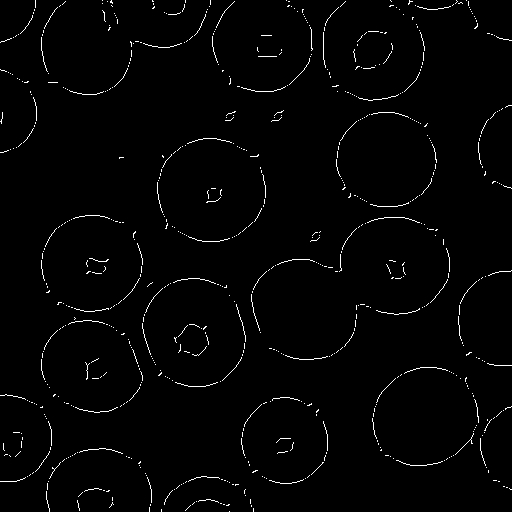
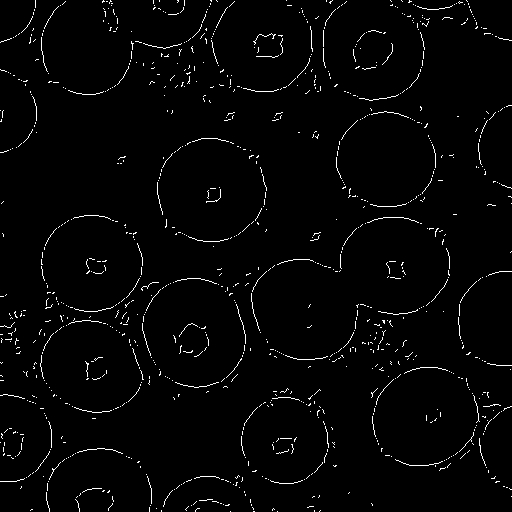
added circle detection

diff --git a/vision-hw4/src/harris_image.c b/vision-hw4/src/harris_image.c
@@ -103,12 +103,8 @@ image make_1d_gaussian(float sigma)
     }
     free(temp);
     image filter = make_image(1, f, 1);
-    printf("\n");
-    for(int i=0; i<f; ++i){
+    for(int i=0; i<f; ++i)
         *(filter.data + i) = pascal[i]/(float)sum;
-        printf("%f, ", *(filter.data + i));
-    }
-    printf("\n");
     free(pascal);
     return filter;
 }
@@ -119,24 +115,23 @@ image make_1d_gaussian(float sigma)
 // returns: smoothed image.
 image smooth_image(image im, float sigma)
 {
-    if(1){
-        image g = make_gaussian_filter(sigma);
-        image s = convolve_image(im, g, 1);
-        free_image(g);
-        return s;
-    }
+    // if(1){
+    //     image g = make_gaussian_filter(sigma);
+    //     image s = convolve_image(im, g, 1);
+    //     free_image(g);
+    //     return s;
+    // }
     // else {
         // TODO: optional, use two convolutions with 1d gaussian filter.
         // If you implement, disable the above if check.
-    // image filter = make_1d_gaussian(sigma);
-    // image mid = convolve_image(im, filter, 1);
-    // free_image(im);
-    // int s = filter.w;
-    // filter.w = filter.h;
-    // filter.h = s;
-    // image filtered_image = convolve_image(mid, filter, 1);
-    // free_image(mid);
-    // return filtered_image;
+    image filter = make_1d_gaussian(sigma);
+    image mid = convolve_image(im, filter, 1);
+    filter.w = filter.h;
+    filter.h = 1;
+    image filtered_image = convolve_image(mid, filter, 1);
+    free_image(mid);
+    free_image(filter);
+    return filtered_image;
 }
 // Calculate the structure matrix of an image.
 // image im: the input image.

diff --git a/vision-hw2/src/harris_image.c b/vision-hw2/src/harris_image.c
@@ -119,24 +119,23 @@ image make_1d_gaussian(float sigma)
 // returns: smoothed image.
 image smooth_image(image im, float sigma)
 {
-    if(1){
-        image g = make_gaussian_filter(sigma);
-        image s = convolve_image(im, g, 1);
-        free_image(g);
-        return s;
-    }
+    // if(1){
+    //     image g = make_gaussian_filter(sigma);
+    //     image s = convolve_image(im, g, 1);
+    //     free_image(g);
+    //     return s;
+    // }
     // else {
         // TODO: optional, use two convolutions with 1d gaussian filter.
         // If you implement, disable the above if check.
-    // image filter = make_1d_gaussian(sigma);
-    // image mid = convolve_image(im, filter, 1);
-    // free_image(im);
-    // int s = filter.w;
-    // filter.w = filter.h;
-    // filter.h = s;
-    // image filtered_image = convolve_image(mid, filter, 1);
-    // free_image(mid);
-    // return filtered_image;
+    image filter = make_1d_gaussian(sigma);
+    image mid = convolve_image(im, filter, 1);
+    filter.w = filter.h;
+    filter.h = 1;
+    image filtered_image = convolve_image(mid, filter, 1);
+    free_image(mid);
+    free_image(filter);
+    return filtered_image;
 }
 // Calculate the structure matrix of an image.
 // image im: the input image.

diff --git a/vision-hw3/src/harris_image.c b/vision-hw3/src/harris_image.c
@@ -119,24 +119,23 @@ image make_1d_gaussian(float sigma)
 // returns: smoothed image.
 image smooth_image(image im, float sigma)
 {
-    if(1){
-        image g = make_gaussian_filter(sigma);
-        image s = convolve_image(im, g, 1);
-        free_image(g);
-        return s;
-    }
+    // if(1){
+    //     image g = make_gaussian_filter(sigma);
+    //     image s = convolve_image(im, g, 1);
+    //     free_image(g);
+    //     return s;
+    // }
     // else {
         // TODO: optional, use two convolutions with 1d gaussian filter.
         // If you implement, disable the above if check.
-    // image filter = make_1d_gaussian(sigma);
-    // image mid = convolve_image(im, filter, 1);
-    // free_image(im);
-    // int s = filter.w;
-    // filter.w = filter.h;
-    // filter.h = s;
-    // image filtered_image = convolve_image(mid, filter, 1);
-    // free_image(mid);
-    // return filtered_image;
+    image filter = make_1d_gaussian(sigma);
+    image mid = convolve_image(im, filter, 1);
+    filter.w = filter.h;
+    filter.h = 1;
+    image filtered_image = convolve_image(mid, filter, 1);
+    free_image(mid);
+    free_image(filter);
+    return filtered_image;
 }
 // Calculate the structure matrix of an image.
 // image im: the input image.

diff --git a/vision-hw4/tryit.py b/vision-hw4/tryit.py
@@ -1,12 +1,19 @@
 from uwimg import *
+import time
 # import cv2
 # import matplotlib.pyplot as plt
 
-im = load_image("data/coins.jpg")
-# save_image(cannyEdgeDetect(im, 3, 0.8, 0.5), "canny")
-canny = cannyEdgeDetect(im, 1, 0.7, 0.07)
-save_image(canny, "canny_coins")
-save_image(findCircles(im, canny, .5, 20, 100), "circles")
+im = load_image("data/canny.jpg")
+
+save_image(cannyEdgeDetect(im, 3, 0.8, 0.5), "canny")
+
+# canny = cannyEdgeDetect(im, 1, 0.7, 0.07)
+# save_image(canny, "canny_board")
+# save_image(findLines(im, canny, .25), "lines")
+
+# canny = cannyEdgeDetect(im, 2, 0.7, 0.07)
+# save_image(canny, "canny_coins")
+# save_image(findCircles(im, canny, .5, 15, 80), "circles")
 
 # findLines(im, 0.4)
 # out = get_lbph_features(im, 1, 8, 8)

diff --git a/vision-hw4/src/feature_extraction.c b/vision-hw4/src/feature_extraction.c
@@ -54,7 +54,8 @@ hog_out get_hog_features(image im){
         printf("Invalid aspect ratio. It must be 1:2 (width:height)");
         return none;
     }
-    image inp = bilinear_resize(convolve_image(im, make_gaussian_filter(2), 1), 64, 128);
+    image blurred_im = smooth_image(im, 2);
+    image inp = bilinear_resize(blurred_im, 64, 128);
     image *grad_info = sobel_image(inp);
     float *cell_hists[16][8];
     for(int j=0; j<inp.h; j += 8){
@@ -100,6 +101,8 @@ hog_out get_hog_features(image im){
     free_image(grad_info[0]);
     free_image(grad_info[1]);
     free(grad_info);
+    free_image(inp);
+    free_image(blurred_im);
     return hog_features;
 }
 

diff --git a/vision-hw4/uwimg.py b/vision-hw4/uwimg.py
@@ -189,6 +189,10 @@ make_gaussian_filter = lib.make_gaussian_filter
 make_gaussian_filter.argtypes = [c_float]
 make_gaussian_filter.restype = IMAGE
 
+smooth_image = lib.smooth_image
+smooth_image.argtypes = [IMAGE, c_float]
+smooth_image.restype = IMAGE
+
 convolve_image = lib.convolve_image
 convolve_image.argtypes = [IMAGE, IMAGE, c_int]
 convolve_image.restype = IMAGE
